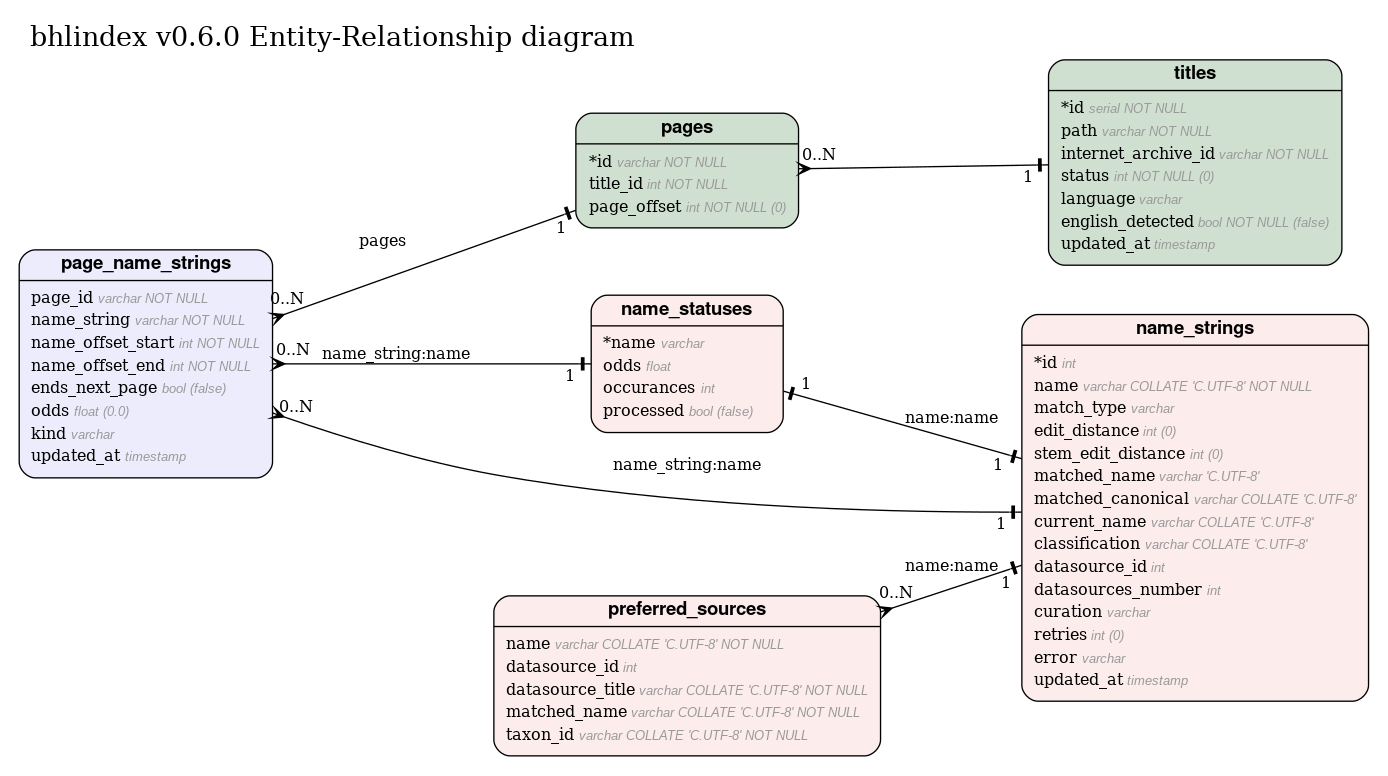
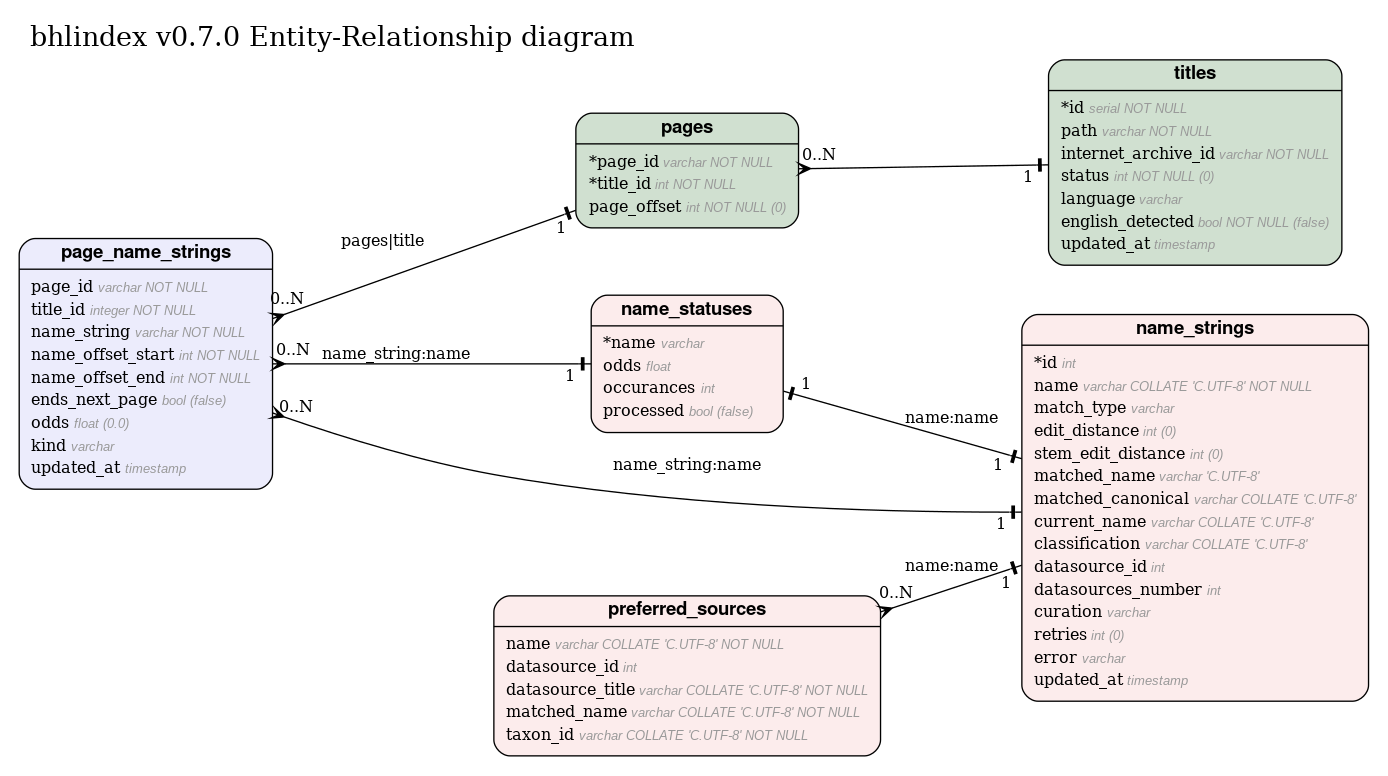
Fix #34 more indices for db

diff --git a/finder_test.go b/finder_test.go
@@ -16,10 +16,10 @@ var _ = Describe("Finder", func() {
 		It("imports pages to db", func() {
 			finder.ProcessTitles(db, dict, 4)
 			Expect(models.Count(db, "pages")).To(Equal(8354))
-			Expect(models.Count(db, "page_name_strings")).To(Equal(16381))
+			Expect(models.Count(db, "page_name_strings")).To(Equal(16243))
 			Expect(models.Count(db, "name_strings")).To(Equal(0))
 			finder.Verify(db, 4)
-			Expect(models.Count(db, "name_strings")).To(Equal(7194))
+			Expect(models.Count(db, "name_strings")).To(Equal(7160))
 			Expect(models.Count(db, "preferred_sources")).To(BeNumerically(">", 0))
 		})
 	})
